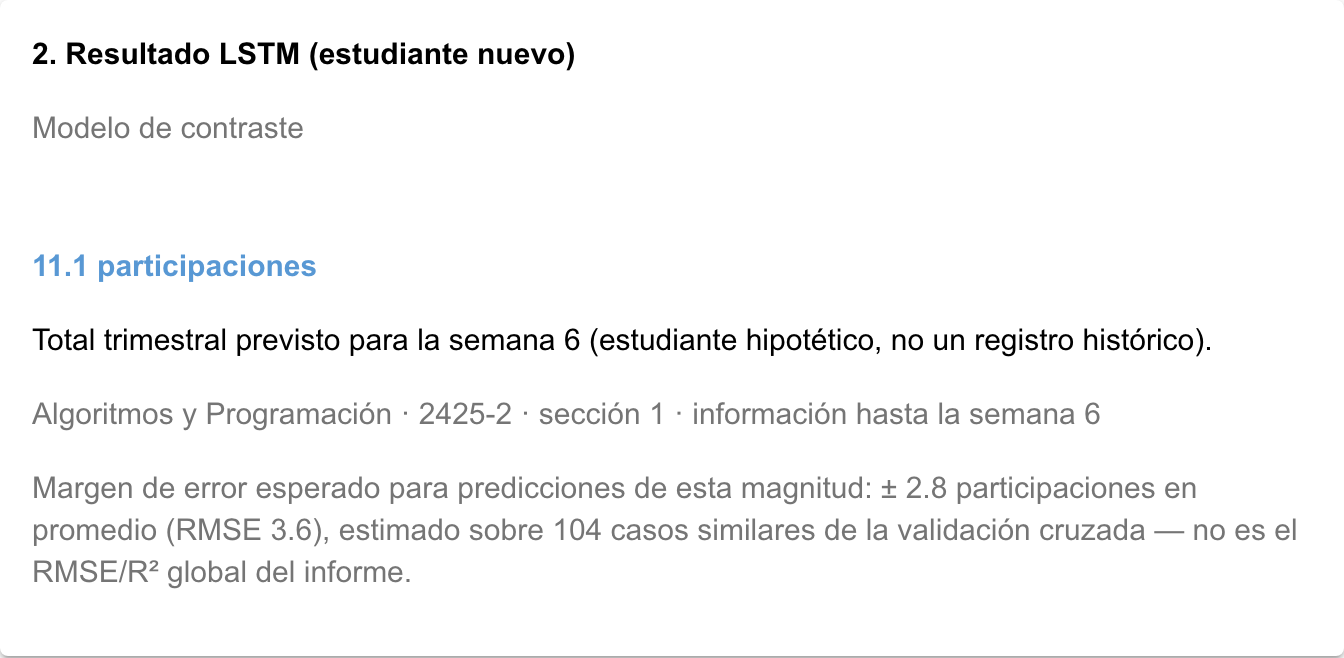
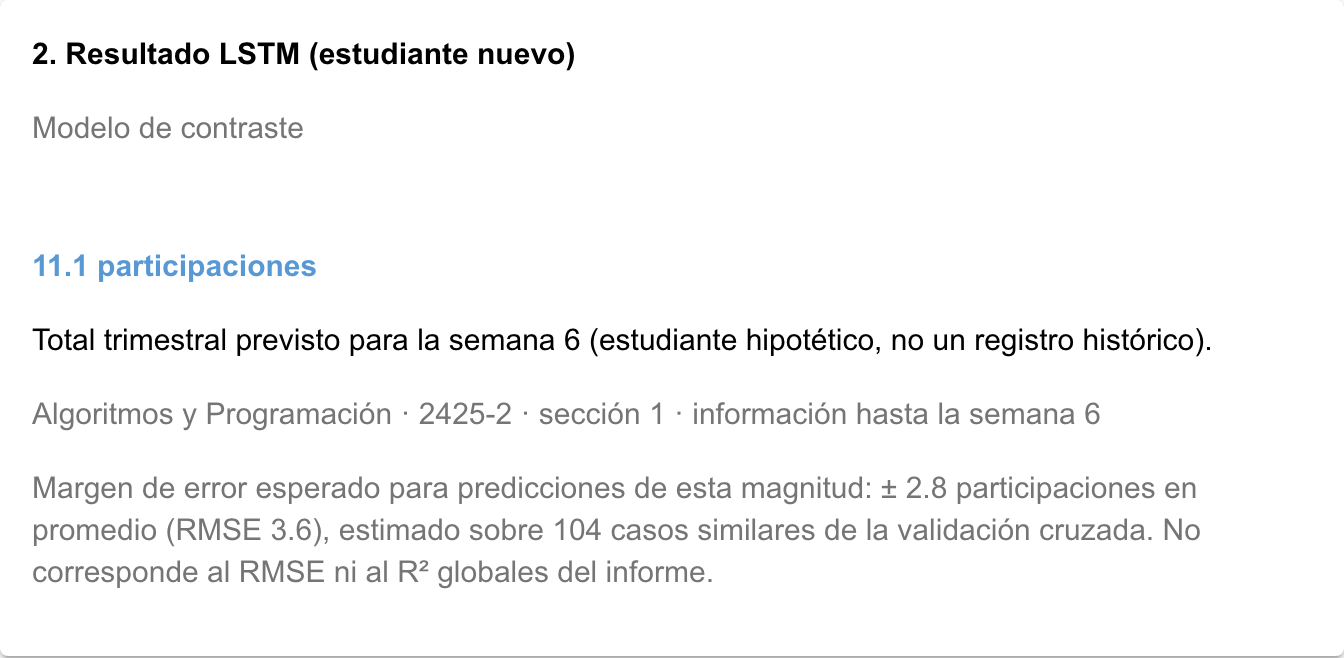
Hotfix

Changed region(s): [[0.0, 0.8511, 0.5312, 0.9119], [0.8438, 0.7903, 0.9688, 0.8207]]

diff --git a/prototipo/app.py b/prototipo/app.py
@@ -335,7 +335,7 @@ def pagina_principal() -> None:
                     f"Margen de error esperado para predicciones de esta magnitud: "
                     f"± {error['mae_local']:.1f} participaciones en promedio "
                     f"(RMSE {error['rmse_local']:.1f}), estimado sobre {error['n']} casos "
-                    f"similares de la validación cruzada — no es el RMSE/R² global del informe."
+                    f"similares de la validación cruzada. No corresponde al RMSE ni al R² globales del informe."
                 )
             else:
                 etiqueta_error_local_lstm.set_text("")
@@ -442,7 +442,7 @@ def pagina_principal() -> None:
                     f"Margen de error esperado para predicciones de esta magnitud: "
                     f"± {error['mae_local']:.1f} participaciones en promedio "
                     f"(RMSE {error['rmse_local']:.1f}), estimado sobre {error['n']} casos "
-                    f"similares de la validación cruzada — no es el RMSE/R² global del informe."
+                    f"similares de la validación cruzada. No corresponde al RMSE ni al R² globales del informe."
                 )
             else:
                 etiqueta_error_local_bayes.set_text("")
@@ -837,7 +837,7 @@ def pagina_principal() -> None:
                     f"Margen de error esperado para predicciones de esta magnitud: "
                     f"± {error['mae_local']:.1f} participaciones en promedio "
                     f"(RMSE {error['rmse_local']:.1f}), estimado sobre {error['n']} casos "
-                    f"similares de la validación cruzada — no es el RMSE/R² global del informe."
+                    f"similares de la validación cruzada. No corresponde al RMSE ni al R² globales del informe."
                 )
             else:
                 etiqueta_error_local_lstm_n.set_text("")
@@ -932,7 +932,7 @@ def pagina_principal() -> None:
                     f"Margen de error esperado para predicciones de esta magnitud: "
                     f"± {error['mae_local']:.1f} participaciones en promedio "
                     f"(RMSE {error['rmse_local']:.1f}), estimado sobre {error['n']} casos "
-                    f"similares de la validación cruzada — no es el RMSE/R² global del informe."
+                    f"similares de la validación cruzada. No corresponde al RMSE ni al R² globales del informe."
                 )
             else:
                 etiqueta_error_local_bayes_n.set_text("")
@@ -1001,4 +1001,4 @@ def pagina_principal() -> None:
     al_cambiar_modo()
 
 
-ui.run(title="Prototipo — participación estudiantil", reload=False)
+ui.run(title="Prototipo de participación estudiantil", reload=False)
